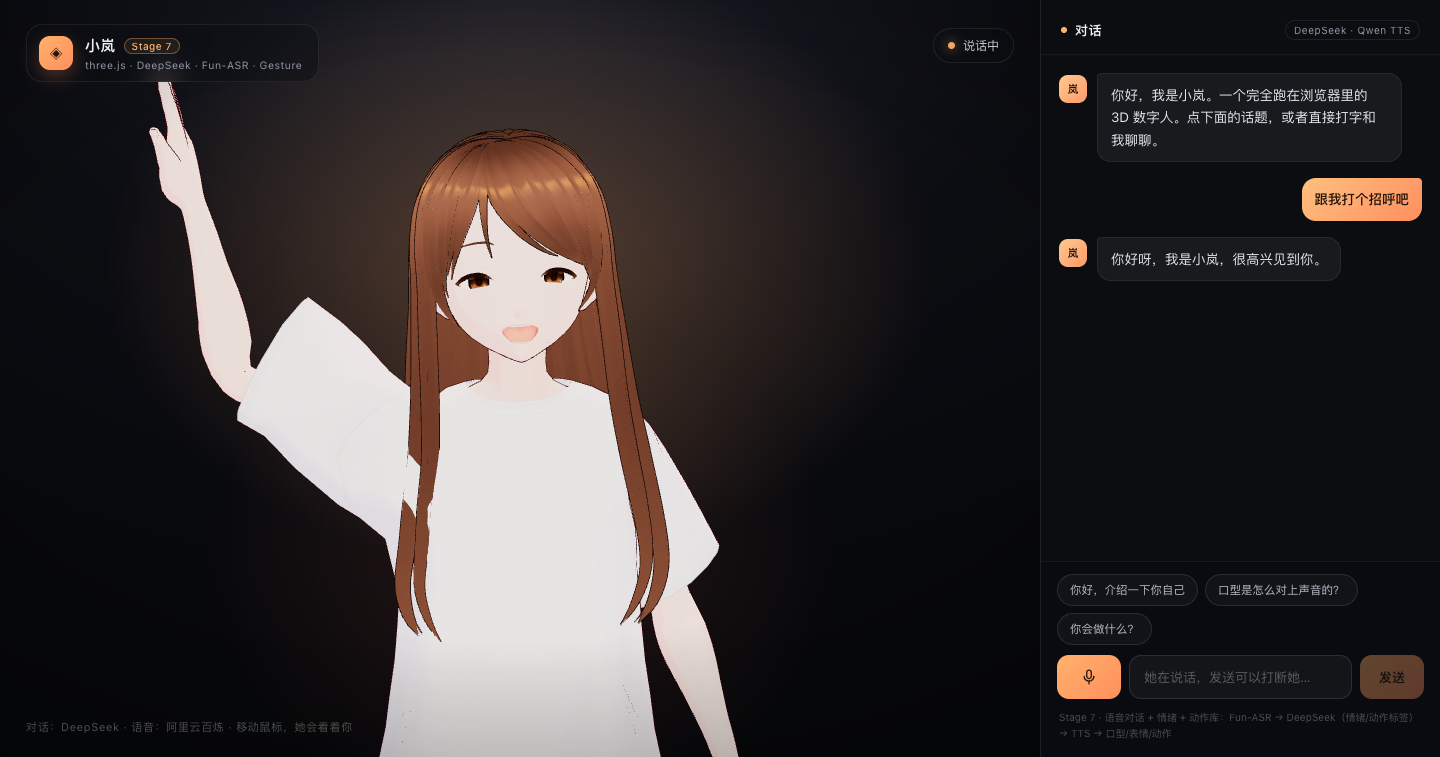
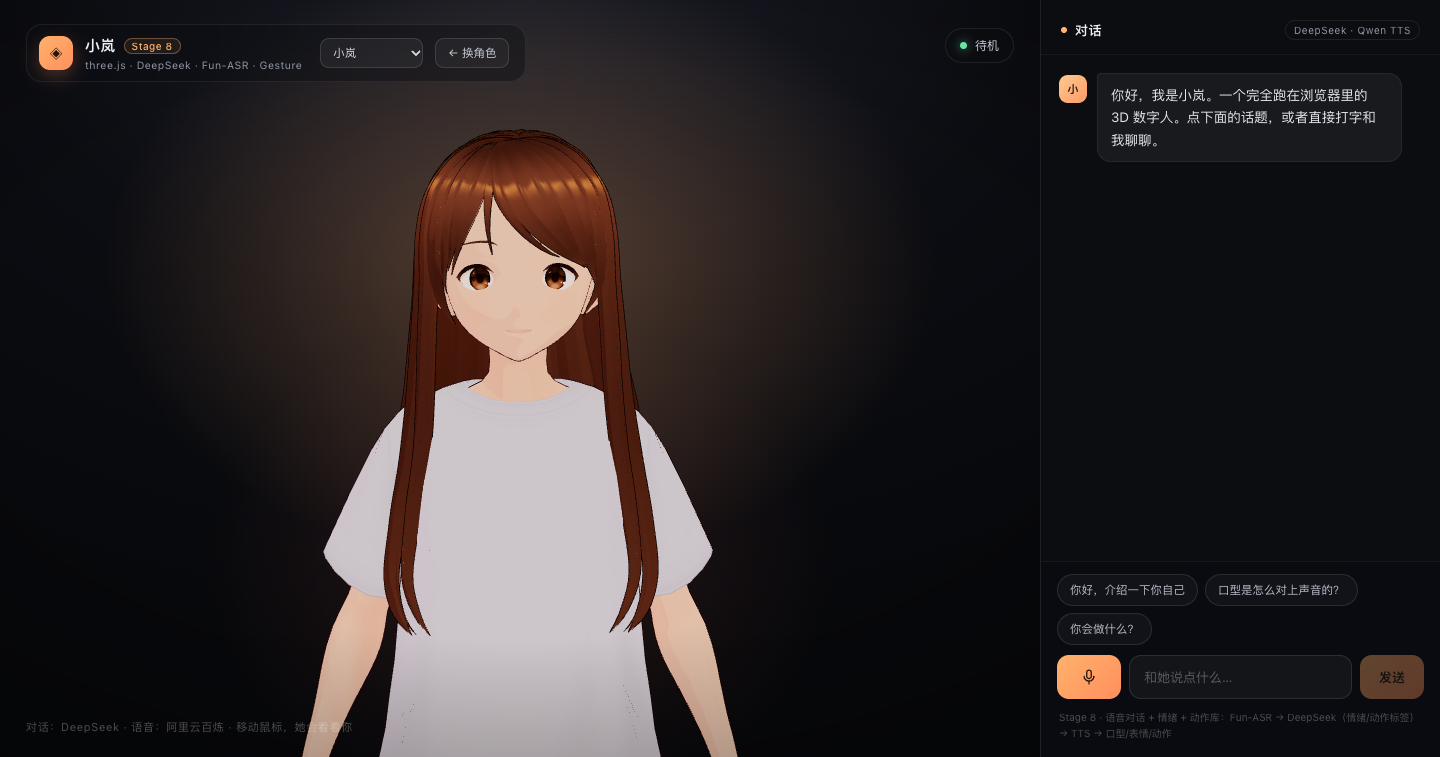
style(vrm): 小岚的配色、描边与面部明暗优化
- 降低环境光与曝光，重新配主光/补光/轮廓光，开启阴影
- MToon 加轻微描边，衣服/皮肤/头发分别染色，去掉大片死白
- 皮肤/头发加强 toon 明暗分界，让五官有体积
- 更新小岚的展示图与选择页缩略图

diff --git a/src/character/vrm/VrmCharacter.ts b/src/character/vrm/VrmCharacter.ts
@@ -66,6 +66,8 @@ export class VrmCharacter implements CharacterAdapter {
     // 蒙皮网格包围盒不随骨骼更新，先关视锥剔除
     vrm.scene.traverse((obj) => {
       obj.frustumCulled = false
+      obj.castShadow = true
+      obj.receiveShadow = true
     })
 
     if (vrm.lookAt) vrm.lookAt.target = this.lookTarget
@@ -75,6 +77,36 @@ export class VrmCharacter implements CharacterAdapter {
     vrm.humanoid.getNormalizedBoneNode('rightUpperArm')?.rotation.set(0.05, -0.04, 1.24)
     vrm.humanoid.getNormalizedBoneNode('leftLowerArm')?.rotation.set(0, -0.14, 0)
     vrm.humanoid.getNormalizedBoneNode('rightLowerArm')?.rotation.set(0, 0.14, 0)
+
+    // MToon：轻微描边 + 稍微加强明暗分界，避免脸糊成一片
+    for (const material of vrm.materials ?? []) {
+      const mat = material as unknown as {
+        name?: string
+        color?: THREE.Color
+        outlineWidthFactor?: number
+        outlineColorFactor?: THREE.Color
+        shadingShiftFactor?: number
+        shadingToonyFactor?: number
+      }
+      if (mat.color) {
+        const name = mat.name ?? ''
+        if (name.startsWith('Tops')) mat.color.set(0xc9d9ea)
+        else if (name.startsWith('Bottoms')) mat.color.set(0x8b83a0)
+        else if (name.startsWith('Shoes')) mat.color.set(0x7d6f74)
+        else if (name.includes('SKIN')) mat.color.set(0xffe3d2)
+        else if (name.startsWith('Hair')) mat.color.set(0xf2e2d4)
+
+        // 皮肤/头发单独加强明暗分界，让五官有体积
+        const skin = name.includes('SKIN')
+        const hair = name.startsWith('Hair')
+        if (skin || hair) {
+          mat.shadingShiftFactor = skin ? -0.24 : -0.12
+          mat.shadingToonyFactor = 0.98
+          const shade = (mat as unknown as { shadeColorFactor?: THREE.Color }).shadeColorFactor
+          if (shade) shade.set(skin ? 0xf0c8bc : 0xc9a88e)
+        }
+      }
+    }
 
     this.vrm = vrm
     this.object.add(vrm.scene)

diff --git a/src/character/Scene.tsx b/src/character/Scene.tsx
@@ -38,6 +38,7 @@ export function Scene({ profile = DEFAULT_CHARACTER, onProgress, onLoaded, onErr
   return (
     <Canvas
       dpr={[1, 2]}
+      shadows
       gl={{ antialias: true, powerPreference: 'high-performance' }}
       camera={{
         fov: profile.framing.fov,
@@ -46,16 +47,24 @@ export function Scene({ profile = DEFAULT_CHARACTER, onProgress, onLoaded, onErr
         far: 30,
       }}
       onCreated={({ gl }) => {
-        gl.toneMappingExposure = 1.0
+        gl.toneMappingExposure = 0.92
       }}
     >
       <Rig framing={profile.framing} />
 
-      <ambientLight intensity={0.7} />
-      <directionalLight position={[2.1, 2.7, 2.6]} intensity={1.7} color="#fff4e8" />
-      <directionalLight position={[-2.6, 1.3, 1.9]} intensity={0.8} color="#a8c2ff" />
-      <directionalLight position={[0.3, 2.1, -2.6]} intensity={1.45} color="#ffcd9e" />
-      <pointLight position={[0, 1.18, 1.55]} intensity={0.35} color="#ffdcc0" />
+      <ambientLight intensity={0.32} />
+      <directionalLight
+        position={[2.1, 2.7, 2.6]}
+        intensity={1.35}
+        color="#fff0df"
+        castShadow
+        shadow-mapSize={[1024, 1024]}
+        shadow-bias={-0.0004}
+      />
+      <directionalLight position={[-2.6, 1.3, 1.9]} intensity={0.45} color="#9db4ff" />
+      <directionalLight position={[0.3, 2.1, -2.6]} intensity={1.1} color="#ffb98a" />
+      <directionalLight position={[0, 1.45, 2.4]} intensity={0.3} color="#ffd9c2" />
+      <pointLight position={[0, 1.18, 1.55]} intensity={0.2} color="#ffdcc0" />
 
       <Character
         profile={profile}
